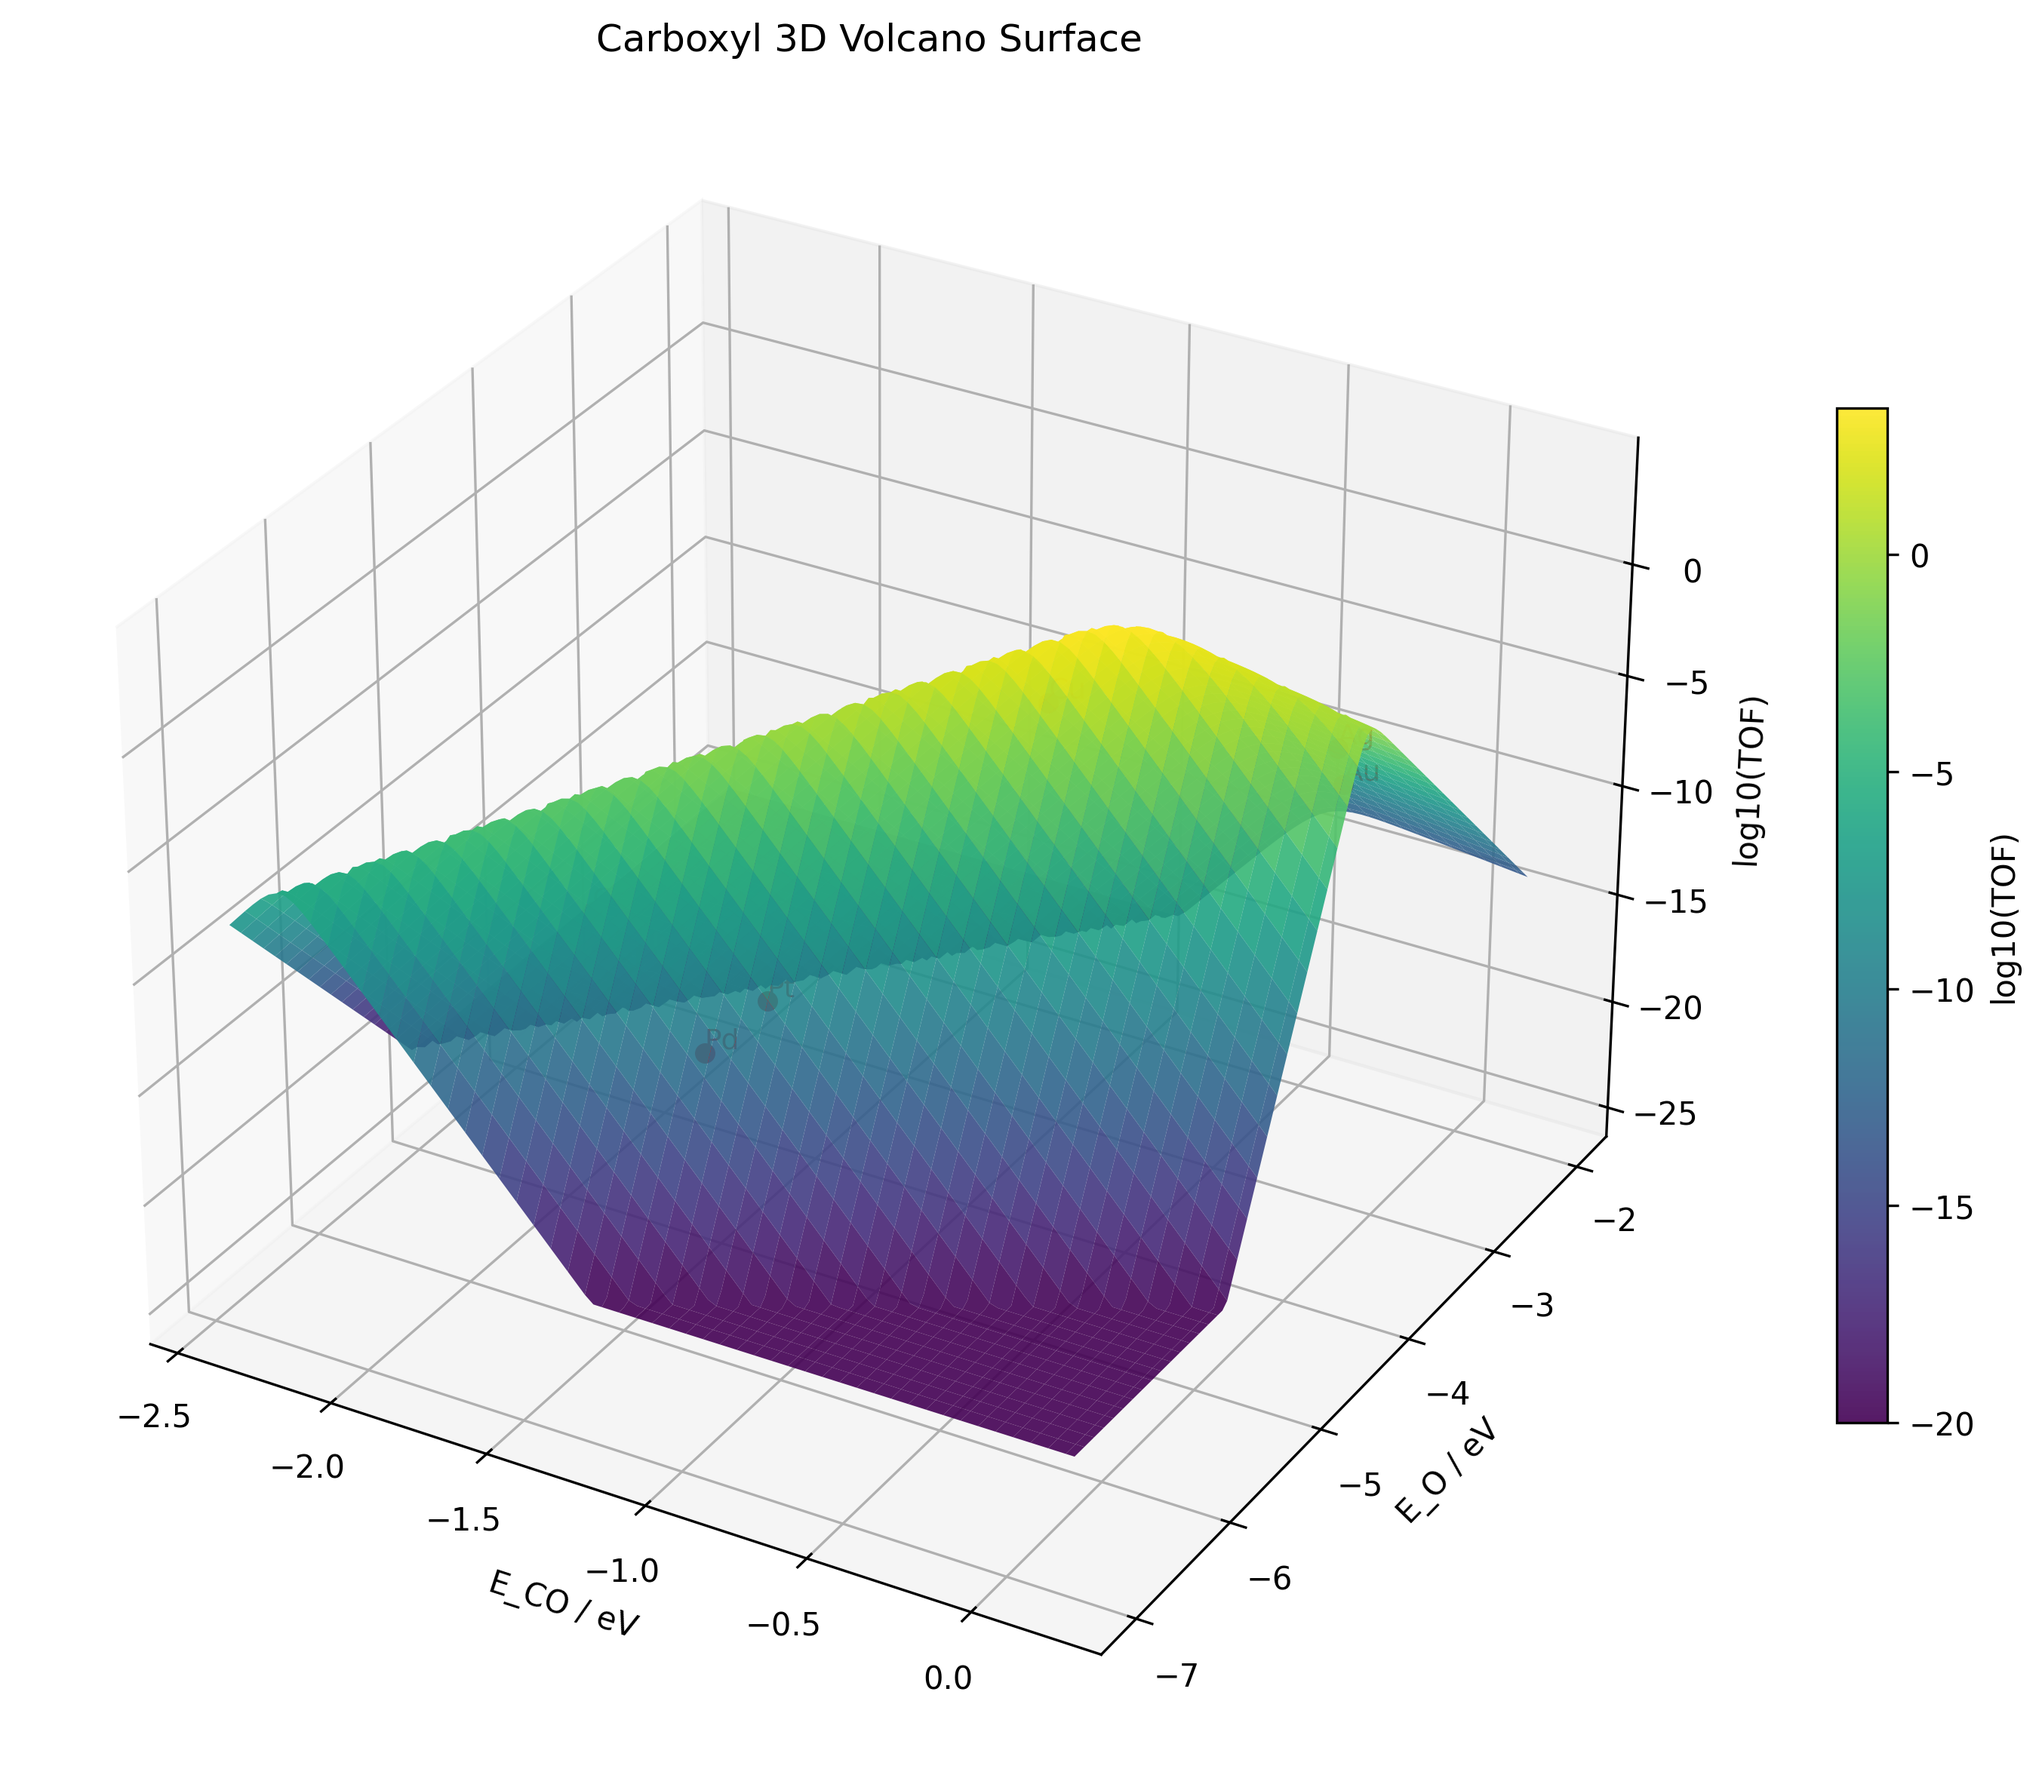
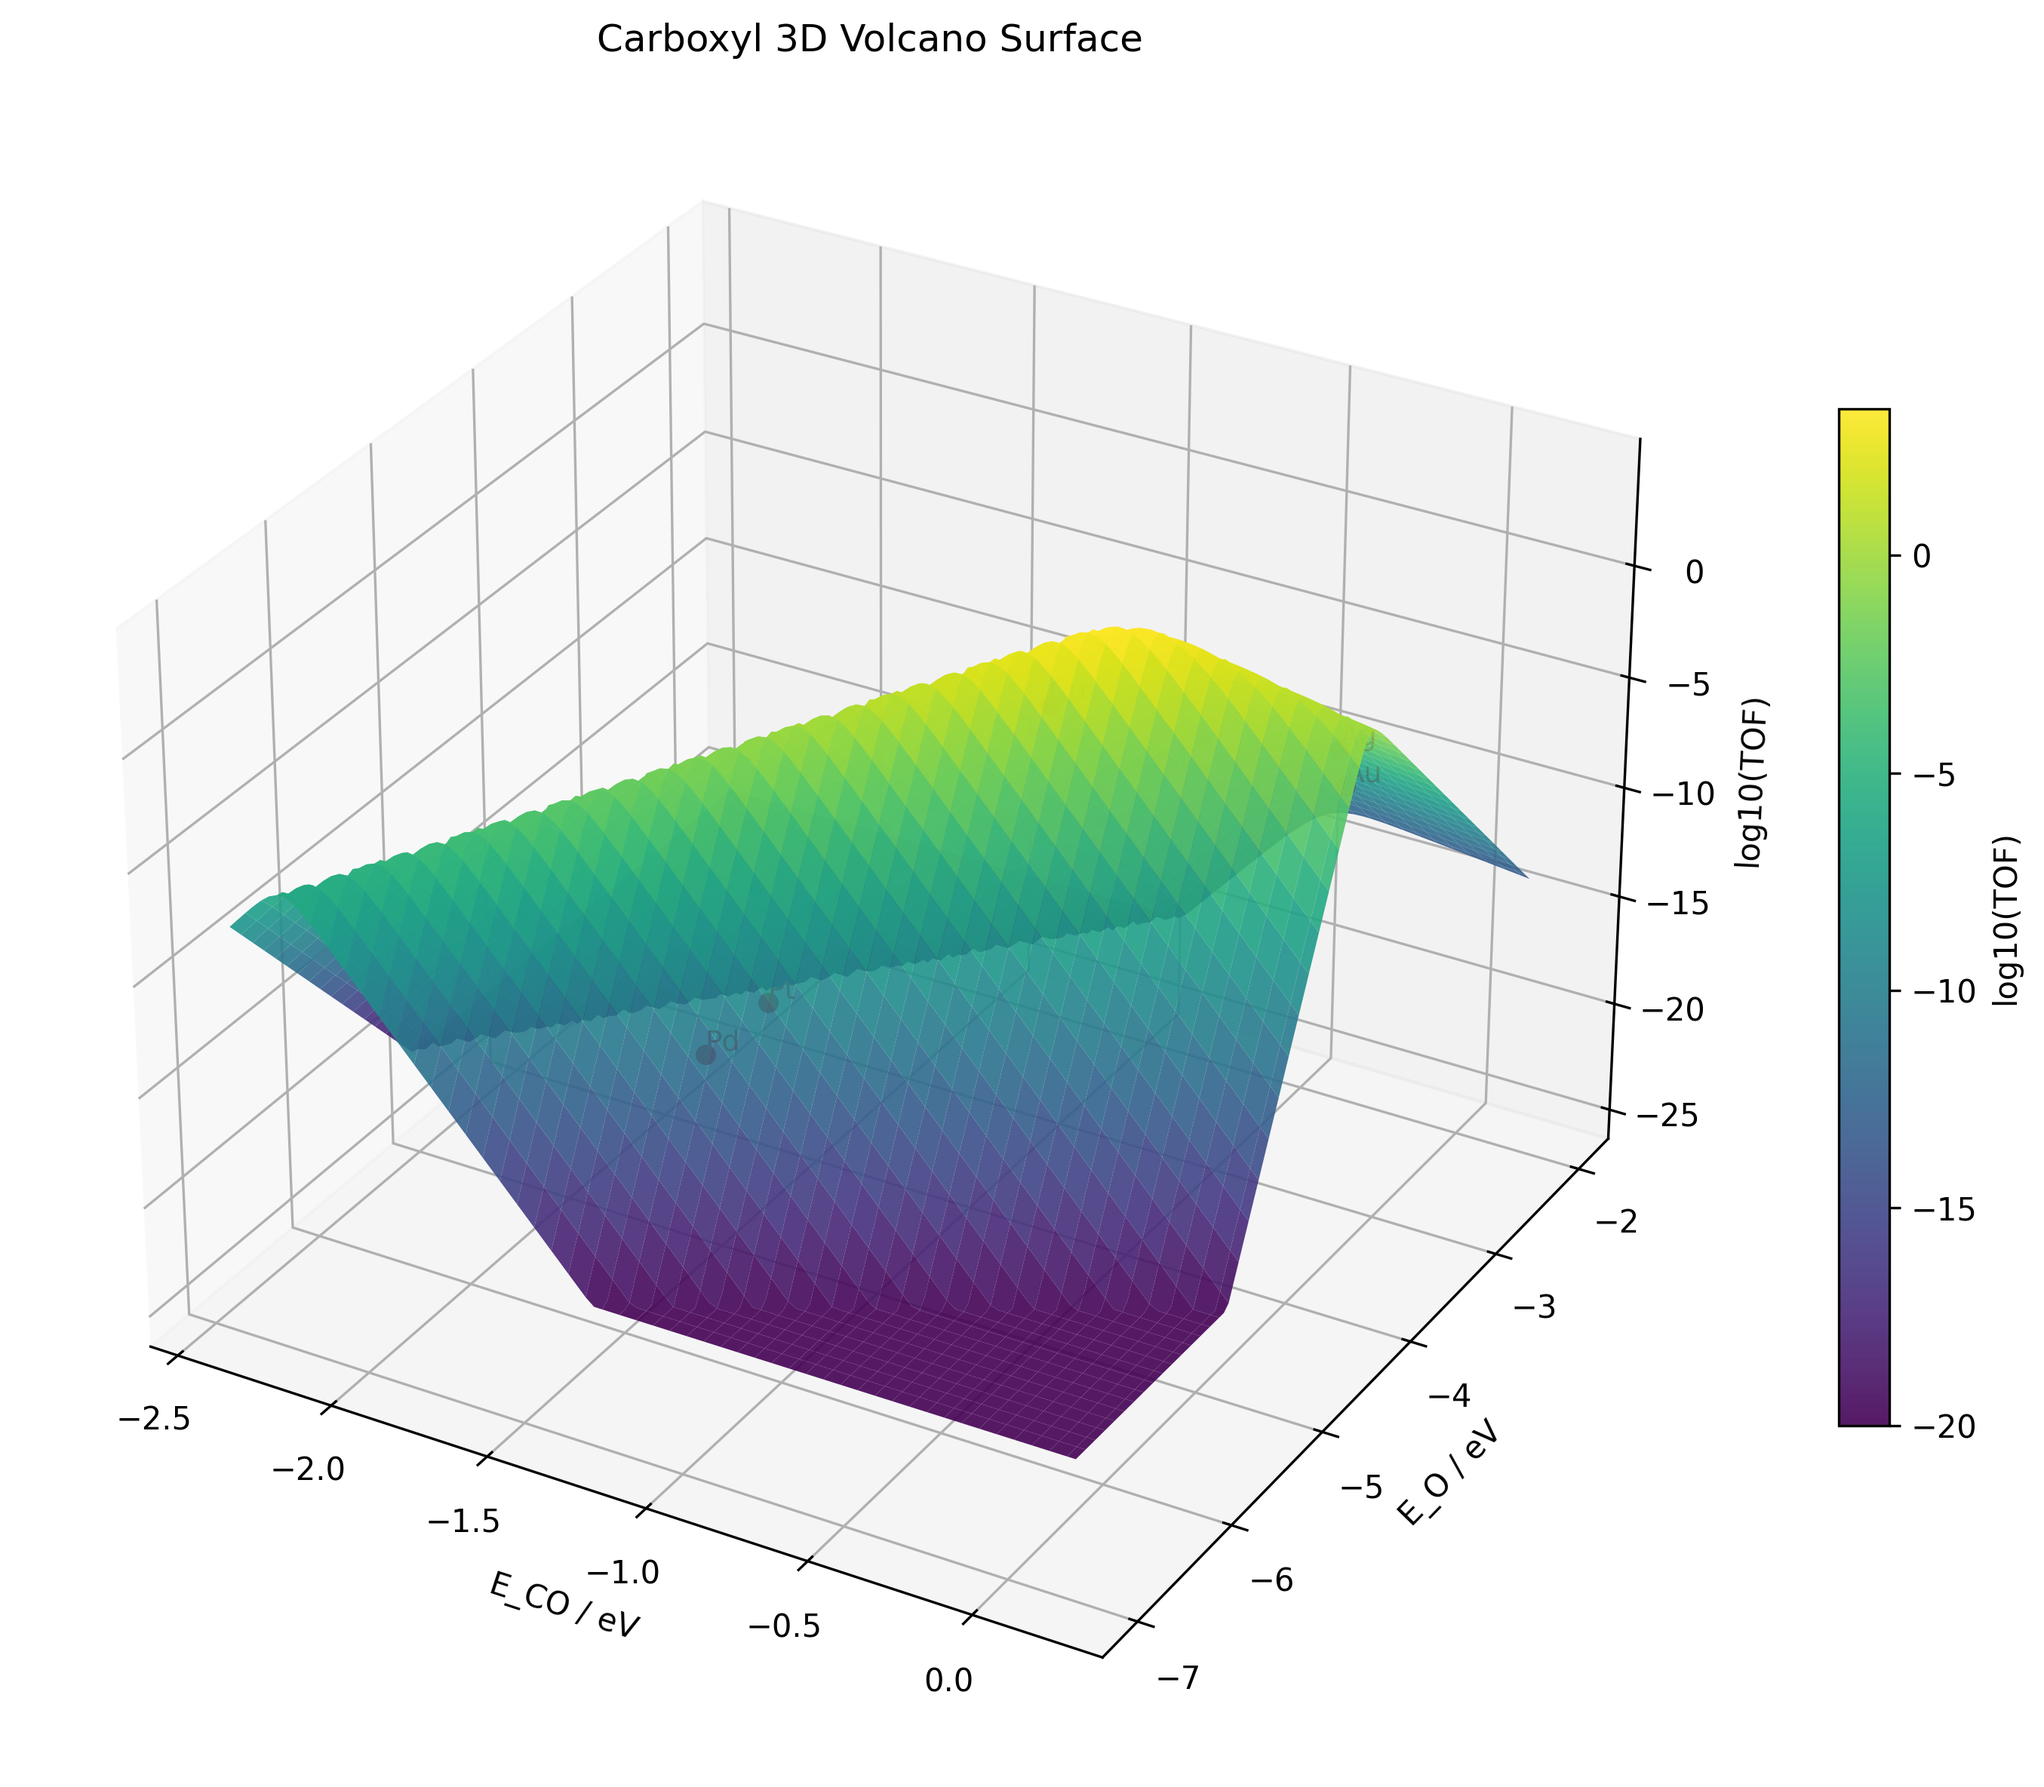
more plots for different descriptors, descriptor maps

Changed region(s): [[0.3725, 0.8951, 0.4035, 0.926], [0.2794, 0.8951, 0.3104, 0.926]]

diff --git a/plot_tof_vs_descriptors.py b/plot_tof_vs_descriptors.py
@@ -10,12 +10,30 @@ TOF_RESULTS_DIR = RESULTS_DIR / "tof_comparisons"
 RESULTS_DIR.mkdir(exist_ok=True)
 TOF_RESULTS_DIR.mkdir(exist_ok=True)
 TOF_CSV = ROOT_DIR / "tof_results.csv"
+if not TOF_CSV.exists():
+    TOF_CSV = RESULTS_DIR / "tof_results.csv"
 
 from model_data import metals, exp_tof, ads_energies
 
 markers = {"redox": "o", "carboxyl": "s", "formate": "^"}
 colors = cm.tab10(np.linspace(0, 1, len(metals)))
 metal_colors = dict(zip(metals, colors))
+descriptors = {
+    "E_CO": {"species": "CO", "label": "E_CO / eV"},
+    "E_O": {"species": "O", "label": "E_O / eV"},
+    "E_H": {"species": "H", "label": "E_H / eV"},
+    "E_OH": {"species": "OH", "label": "E_OH / eV"},
+}
+
+
+def descriptor_output_dir(descriptor):
+    output_dir = TOF_RESULTS_DIR / descriptor
+    output_dir.mkdir(parents=True, exist_ok=True)
+    return output_dir
+
+
+def descriptor_value(metal, descriptor):
+    return ads_energies[metal][descriptors[descriptor]["species"]]
 
 
 def read_tof_results(csv_path):
@@ -25,8 +43,6 @@ def read_tof_results(csv_path):
             {
                 "metal": row["metal"],
                 "mechanism": row["mechanism"],
-                "E_O": float(row["dE_O"]),
-                "E_CO": float(row["dE_CO"]),
                 "log10_tof": float(row["log10_tof"]),
                 "tof": float(row["tof"]),
             }
@@ -46,7 +62,7 @@ def plot_tof_vs_descriptor(results, descriptor, output_name, mechanism_filter=No
             row = next((r for r in results if r["metal"] == metal and r["mechanism"] == mechanism), None)
             if row:
                 ax.scatter(
-                    row[descriptor],
+                    descriptor_value(metal, descriptor),
                     row["tof"],
                     marker=markers[mechanism],
                     color=color,
@@ -58,9 +74,8 @@ def plot_tof_vs_descriptor(results, descriptor, output_name, mechanism_filter=No
     # Plot experimental data
     for metal in metals:
         if metal in exp_tof:
-            key = "O" if descriptor == "E_O" else "CO"
             ax.scatter(
-                ads_energies[metal][key],
+                descriptor_value(metal, descriptor),
                 exp_tof[metal],
                 marker='x',
                 color=metal_colors[metal],
@@ -73,7 +88,7 @@ def plot_tof_vs_descriptor(results, descriptor, output_name, mechanism_filter=No
         relevant_results = [r for r in results if r["metal"] == metal and (not mechanism_filter or r["mechanism"] == mechanism_filter)]
         if relevant_results:
             max_tof = max(r["tof"] for r in relevant_results)
-            x_pos = relevant_results[0][descriptor]
+            x_pos = descriptor_value(metal, descriptor)
             ax.annotate(
                 metal,
                 (x_pos, max_tof),
@@ -84,8 +99,8 @@ def plot_tof_vs_descriptor(results, descriptor, output_name, mechanism_filter=No
                 ha='center'
             )
     
-    # Highlight regimes for combined plots using the current axis window
-    if not mechanism_filter:
+    # Highlight regimes for combined E_CO/E_O plots using the current axis window.
+    if not mechanism_filter and descriptor in {"E_CO", "E_O"}:
         x_min, x_max = ax.get_xlim()
         if descriptor == "E_CO":
             regimes = [(x_min, -1.75, "Strong E_CO"), (-1.75, -0.5, "Intermediate E_CO"), (-0.5, x_max, "Weak E_CO")]
@@ -116,7 +131,7 @@ def plot_tof_vs_descriptor(results, descriptor, output_name, mechanism_filter=No
     
     ax.legend(handles=handles, title="Mechanism / Exp")
     
-    ax.set_xlabel("E_O / eV" if descriptor == "E_O" else "E_CO / eV")
+    ax.set_xlabel(descriptors[descriptor]["label"])
     ax.set_ylabel("TOF / s^-1")
     ax.set_yscale("log")
     title = f"TOF vs {descriptor}"
@@ -125,7 +140,7 @@ def plot_tof_vs_descriptor(results, descriptor, output_name, mechanism_filter=No
     ax.set_title(title)
     ax.grid(True, which="both", linestyle="--", linewidth=0.5, alpha=0.5)
     fig.tight_layout()
-    fig.savefig(TOF_RESULTS_DIR / output_name, dpi=300, bbox_inches="tight")
+    fig.savefig(descriptor_output_dir(descriptor) / output_name, dpi=300, bbox_inches="tight")
     return fig
 
 
@@ -134,18 +149,17 @@ def plot_exp_vs_descriptor(descriptor, output_name):
     
     for metal in metals:
         if metal in exp_tof:
-            key = "O" if descriptor == "E_O" else "CO"
             ax.scatter(
-                ads_energies[metal][key],
+                descriptor_value(metal, descriptor),
                 exp_tof[metal],
-                marker='x',
+                marker='o',
                 color='black',
                 s=70,
                 alpha=0.85,
             )
             ax.annotate(
                 metal,
-                (ads_energies[metal][key], exp_tof[metal]),
+                (descriptor_value(metal, descriptor), exp_tof[metal]),
                 textcoords="offset points",
                 xytext=(0, 10),
                 fontsize=8,
@@ -153,27 +167,31 @@ def plot_exp_vs_descriptor(descriptor, output_name):
                 ha='center'
             )
     
-    ax.set_xlabel("E_O / eV" if descriptor == "E_O" else "E_CO / eV")
+    ax.set_xlabel(descriptors[descriptor]["label"])
     ax.set_ylabel("TOF / s^-1")
     ax.set_yscale("log")
     ax.set_title(f"Experimental TOF vs {descriptor}")
     fig.tight_layout()
-    fig.savefig(TOF_RESULTS_DIR / output_name, dpi=300, bbox_inches="tight")
+    fig.savefig(descriptor_output_dir(descriptor) / output_name, dpi=300, bbox_inches="tight")
     return fig
 
 
 def main():
     results = read_tof_results(TOF_CSV)
-    # Combined plots
-    plot_tof_vs_descriptor(results, "E_O", "tof_vs_E_O.png")
-    plot_tof_vs_descriptor(results, "E_CO", "tof_vs_E_CO.png")
-    # Individual mechanism plots
-    for mechanism in ["redox", "carboxyl", "formate"]:
-        plot_tof_vs_descriptor(results, "E_O", f"tof_vs_E_O_{mechanism}.png", mechanism_filter=mechanism)
-        plot_tof_vs_descriptor(results, "E_CO", f"tof_vs_E_CO_{mechanism}.png", mechanism_filter=mechanism)
-    # Experimental plots
-    plot_exp_vs_descriptor("E_O", "exp_tof_vs_E_O.png")
-    plot_exp_vs_descriptor("E_CO", "exp_tof_vs_E_CO.png")
+
+    for descriptor in descriptors:
+        plot_tof_vs_descriptor(results, descriptor, f"tof_vs_{descriptor}.png")
+
+        for mechanism in ["redox", "carboxyl", "formate"]:
+            plot_tof_vs_descriptor(
+                results,
+                descriptor,
+                f"tof_vs_{descriptor}_{mechanism}.png",
+                mechanism_filter=mechanism,
+            )
+
+        plot_exp_vs_descriptor(descriptor, f"exp_tof_vs_{descriptor}.png")
+
     plt.show()
 
 

diff --git a/plot_descriptor_maps.py b/plot_descriptor_maps.py
@@ -1,0 +1,165 @@
+from __future__ import annotations
+
+import csv
+import math
+from collections import defaultdict
+from pathlib import Path
+
+import matplotlib.pyplot as plt
+
+
+ROOT_DIR = Path(__file__).resolve().parent
+TOF_CSV = ROOT_DIR / "tof_results.csv"
+if not TOF_CSV.exists():
+    TOF_CSV = ROOT_DIR / "results" / "tof_results.csv"
+
+OUTPUT_DIR = ROOT_DIR / "results" / "descriptor_maps"
+OUTPUT_DIR.mkdir(parents=True, exist_ok=True)
+
+MECHANISM_COLORS = {
+    "redox": "black",
+    "carboxyl": "#1f77b4",
+    "formate": "#2ca02c",
+}
+
+
+def read_tof_results(csv_path: Path) -> list[dict[str, float | str]]:
+    rows = []
+    with csv_path.open(newline="", encoding="utf-8") as f:
+        reader = csv.DictReader(f)
+        for row in reader:
+            rows.append(
+                {
+                    "metal": row["metal"],
+                    "mechanism": row["mechanism"],
+                    "dE_CO": float(row["dE_CO"]),
+                    "dE_O": float(row["dE_O"]),
+                    "log10_tof": float(row["log10_tof"]),
+                }
+            )
+    return rows
+
+
+def plot_mechanism_maps(rows: list[dict[str, float | str]]) -> None:
+    mechanisms = sorted({str(row["mechanism"]) for row in rows})
+
+    for mechanism in mechanisms:
+        mechanism_rows = [row for row in rows if row["mechanism"] == mechanism]
+
+        fig, ax = plt.subplots(figsize=(7, 5.5))
+        scatter = ax.scatter(
+            [float(row["dE_CO"]) for row in mechanism_rows],
+            [float(row["dE_O"]) for row in mechanism_rows],
+            c=[float(row["log10_tof"]) for row in mechanism_rows],
+            s=120,
+            cmap="viridis",
+            edgecolor="black",
+            linewidth=0.7,
+        )
+
+        for row in mechanism_rows:
+            ax.annotate(
+                str(row["metal"]),
+                (float(row["dE_CO"]), float(row["dE_O"])),
+                textcoords="offset points",
+                xytext=(6, 5),
+                fontsize=9,
+            )
+
+        colorbar = fig.colorbar(scatter, ax=ax)
+        colorbar.set_label(r"$\log_{10}(\mathrm{TOF})$")
+
+        ax.set_xlabel(r"$\Delta E_{\mathrm{CO}}\ \mathrm{(eV)}$")
+        ax.set_ylabel(r"$\Delta E_{\mathrm{O}}\ \mathrm{(eV)}$")
+        ax.set_title(f"{mechanism.capitalize()} Descriptor Map")
+        fig.tight_layout()
+        fig.savefig(OUTPUT_DIR / f"{mechanism}_descriptor_map.png", dpi=300)
+        plt.close(fig)
+
+
+def scale_point_sizes(values: list[float], min_size: float = 90.0, max_size: float = 360.0) -> list[float]:
+    min_value = min(values)
+    max_value = max(values)
+
+    if max_value == min_value:
+        return [(min_size + max_size) / 2 for _ in values]
+
+    return [
+        min_size + (value - min_value) * (max_size - min_size) / (max_value - min_value)
+        for value in values
+    ]
+
+
+def plot_dominant_mechanism_map(rows: list[dict[str, float | str]]) -> None:
+    rows_by_metal: dict[str, list[dict[str, float | str]]] = defaultdict(list)
+    for row in rows:
+        rows_by_metal[str(row["metal"])].append(row)
+
+    dominant_rows = []
+    for metal, metal_rows in rows_by_metal.items():
+        dominant_row = max(metal_rows, key=lambda row: float(row["log10_tof"]))
+        total_tof = sum(10 ** float(row["log10_tof"]) for row in metal_rows)
+        dominant_rows.append(
+            {
+                "metal": metal,
+                "dominant_mechanism": str(dominant_row["mechanism"]),
+                "dE_CO": float(dominant_row["dE_CO"]),
+                "dE_O": float(dominant_row["dE_O"]),
+                "log10_total_tof": math.log10(total_tof),
+            }
+        )
+
+    sizes = scale_point_sizes([row["log10_total_tof"] for row in dominant_rows])
+
+    fig, ax = plt.subplots(figsize=(7, 5.5))
+    for row, size in zip(dominant_rows, sizes):
+        mechanism = row["dominant_mechanism"]
+        ax.scatter(
+            row["dE_CO"],
+            row["dE_O"],
+            s=size,
+            color=MECHANISM_COLORS.get(mechanism, "gray"),
+            edgecolor="black",
+            linewidth=0.7,
+            alpha=0.9,
+        )
+        ax.annotate(
+            row["metal"],
+            (row["dE_CO"], row["dE_O"]),
+            textcoords="offset points",
+            xytext=(6, 5),
+            fontsize=9,
+        )
+
+    handles = [
+        plt.Line2D(
+            [0],
+            [0],
+            marker="o",
+            color="none",
+            markerfacecolor=color,
+            markeredgecolor="black",
+            markersize=9,
+            label=mechanism.capitalize(),
+        )
+        for mechanism, color in MECHANISM_COLORS.items()
+    ]
+    ax.legend(handles=handles, title="Dominant mechanism")
+
+    ax.set_xlabel(r"$\Delta E_{\mathrm{CO}}\ \mathrm{(eV)}$")
+    ax.set_ylabel(r"$\Delta E_{\mathrm{O}}\ \mathrm{(eV)}$")
+    ax.set_title("Dominant Mechanism Descriptor Map")
+    fig.tight_layout()
+    fig.savefig(OUTPUT_DIR / "dominant_mechanism_map.png", dpi=300)
+    plt.close(fig)
+
+
+def main() -> None:
+    rows = read_tof_results(TOF_CSV)
+    plot_mechanism_maps(rows)
+    plot_dominant_mechanism_map(rows)
+    print(f"Saved descriptor maps to {OUTPUT_DIR}")
+
+
+if __name__ == "__main__":
+    main()
